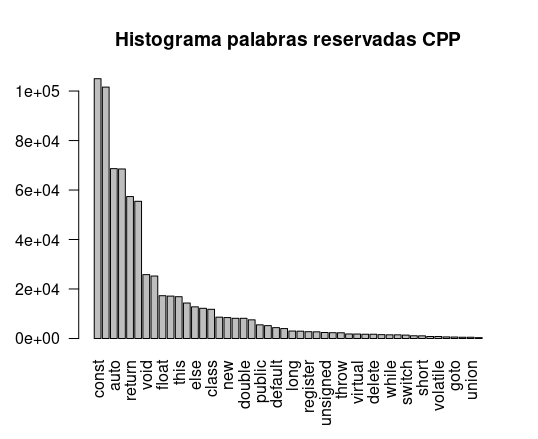
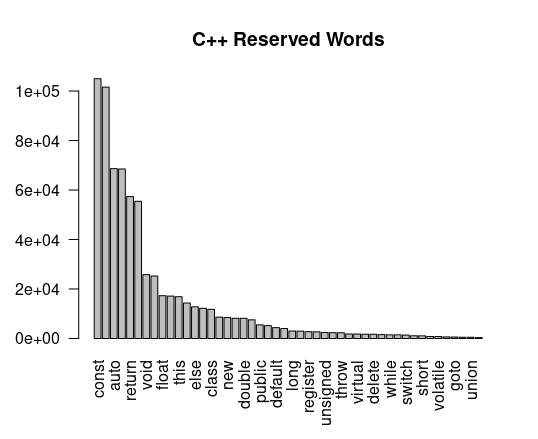
Se modificaron las imagenes y se agrego readme

Changed region(s): [[0.2082, 0.0592, 0.8625, 0.1185]]

diff --git a/README.md b/README.md
@@ -1,0 +1,9 @@
+## Pythorch Reserved Python and CPP words count with R
+
+R program to plot the number of reserved words of the languages C++ and Python used to develop [Pytorch](https://github.com/pytorch/pytorch).
+
+The program generates the following charts.
+
+![](https://github.com/IsaiasPachecoIPN/LanguajeRWordCount/blob/main/images/cpp_words_count.png)
+
+![](https://github.com/IsaiasPachecoIPN/LanguajeRWordCount/blob/main/images/python_words_count.png)
